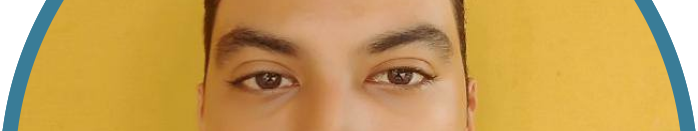
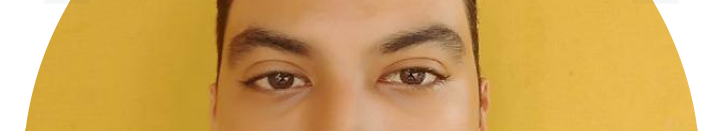
perfil image efect

diff --git a/src/assets/css/style.css b/src/assets/css/style.css
@@ -1,4 +1,4 @@
-.l-perfil__image .move-1{animation:move-1 6s infinite;width:100%;margin:0;padding:0;line-height:0}.l-perfil__image .move-2{width:100%;animation:move-2 6s infinite;top:10px;margin:-1.1px;padding:-1.1px;line-height:0}.l-perfil__image .move-3{width:100%;animation:move-3 6s infinite;margin:0;padding:0;line-height:0}.l-perfil__image .move-4{animation:move-4 6s infinite;width:100%;margin:-1px;padding:-1px;line-height:100px}.l-perfil__image .move-5{animation:move-5 6s infinite;width:100%;margin:-1px;padding:-1px;line-height:0}@keyframes move-1{0%{transform:translateX(0)}1%{transform:translateX(15px)}2%{transform:translateX(0)}to{transform:translateX(0)}}@keyframes move-2{0%{transform:translateX(1px)}2%{transform:translateX(-12px)}4%{transform:translateX(0)}to{transform:translateX(0)}}@keyframes move-3{1%{transform:translateX(2px)}3%{transform:translateX(7px)}4%{transform:translateX(0)}to{transform:translateX(0)}}@keyframes move-4{0%{transform:translateX(0)}2%{transform:translateX(-3px)}3%{transform:translateX(0)}to{transform:translateX(0)}}@keyframes move-5{0%{transform:translateX(1px)}3%{transform:translateX(2px)}4%{transform:translateX(0)}to{transform:translateX(0)}}
+.l-perfil__image .move-1{max-width:100%;animation:move-1 5s infinite;margin:0;padding:0;line-height:0}.l-perfil__image .move-2{max-width:100%;animation:move-2 5s infinite;top:10px;margin:-1.1px;padding:-1.1px;line-height:0}.l-perfil__image .move-3{max-width:100%;animation:move-3 5s infinite;margin:0;padding:0;line-height:0}.l-perfil__image .move-4{max-width:100%;animation:move-4 5s infinite;margin:-1px;padding:-1px;line-height:100px}.l-perfil__image .move-5{max-width:100%;animation:move-5 5s infinite;margin:-1px;padding:-1px;line-height:0}@keyframes move-1{0%{transform:translateX(0)}1%{transform:translateX(15px)}2%{transform:translateX(0)}to{transform:translateX(0)}}@keyframes move-2{0%{transform:translateX(1px)}1%{transform:translateX(-12px)}2%{transform:translateX(0)}to{transform:translateX(0)}}@keyframes move-3{1%{transform:translateX(2px)}2%{transform:translateX(7px)}3%{transform:translateX(0)}to{transform:translateX(0)}}@keyframes move-4{0%{transform:translateX(0)}2%{transform:translateX(-3px)}3%{transform:translateX(0)}to{transform:translateX(0)}}@keyframes move-5{0%{transform:translateX(1px)}1%{transform:translateX(2px)}2%{transform:translateX(0)}to{transform:translateX(0)}}
 
-/*! normalize.css v8.0.1 | MIT License | github.com/necolas/normalize.css */html{line-height:1.15;-webkit-text-size-adjust:100%}body{margin:0}main{display:block}h1{font-size:2em;margin:.67em 0}hr{box-sizing:content-box;height:0;overflow:visible}pre{font-family:monospace,monospace;font-size:1em}a{background-color:transparent}abbr[title]{border-bottom:none;text-decoration:underline;text-decoration:underline dotted}b,strong{font-weight:bolder}code,kbd,samp{font-family:monospace,monospace;font-size:1em}small{font-size:80%}sub,sup{font-size:75%;line-height:0;position:relative;vertical-align:baseline}sub{bottom:-.25em}sup{top:-.5em}img{border-style:none}button,input,optgroup,select,textarea{font-family:inherit;font-size:100%;line-height:1.15;margin:0}button,input{overflow:visible}button,select{text-transform:none}[type=button],[type=reset],[type=submit],button{-webkit-appearance:button}[type=button]::-moz-focus-inner,[type=reset]::-moz-focus-inner,[type=submit]::-moz-focus-inner,button::-moz-focus-inner{border-style:none;padding:0}[type=button]:-moz-focusring,[type=reset]:-moz-focusring,[type=submit]:-moz-focusring,button:-moz-focusring{outline:1px dotted ButtonText}fieldset{padding:.35em .75em .625em}legend{box-sizing:border-box;color:inherit;display:table;max-width:100%;padding:0;white-space:normal}progress{vertical-align:baseline}textarea{overflow:auto}[type=checkbox],[type=radio]{box-sizing:border-box;padding:0}[type=number]::-webkit-inner-spin-button,[type=number]::-webkit-outer-spin-button{height:auto}[type=search]{-webkit-appearance:textfield;outline-offset:-2px}[type=search]::-webkit-search-decoration{-webkit-appearance:none}::-webkit-file-upload-button{-webkit-appearance:button;font:inherit}details{display:block}summary{display:list-item}[hidden],template{display:none}a{text-decoration:none}li{list-style:none}@font-face{font-family:Raleway Regular;src:url(../fonts/raleway/raleway-regular.ttf) format("truetype")}@font-face{font-family:Raleway Bold;src:url(../fonts/raleway/raleway-bold.ttf) format("truetype")}.alert{height:25px;padding:4px;border-radius:4px;color:#ba2819;margin-top:.4rem}.alert,.sucess{display:flex;box-sizing:border-box;align-items:center}.sucess{box-shadow:0 0 5px 0 rgba(0,0,0,.45);background:#267539;border-radius:6px;padding:10px;height:51px;width:100%}.sucess__icon{height:20px;width:20px;padding:5px;margin-right:10px;border-radius:50%;background:#195727}html{scroll-behavior:smooth}.l-about__area{display:flex;flex-direction:row;justify-content:space-between;margin:20px 0}.l-about__area .c-button{max-width:151px}@media screen and (max-width:768px){.l-about__area{flex-direction:column}.l-about__area .l-perfil__area{order:0;align-self:center}.l-about__area .c-about__me{order:1}}body{display:flex;align-items:center;flex-direction:column;background-color:#202835;font-family:Raleway Regular,sans-serif;color:#fff;font-weight:700}.l-card__hobbies{align-items:center;border-radius:5px;flex-direction:row;height:90px;justify-content:center;padding:4px;width:300px}.l-card__hobbies,.l-card__project{background-color:#293342;box-sizing:border-box;display:flex}.l-card__project{box-shadow:0 0 5px 0 rgba(0,0,0,.45);border-radius:6px;height:265px;max-width:360px;min-width:310px;position:relative}.l-card__project,.l-card__project__body{flex-direction:column;overflow:hidden;width:100%}.l-card__project__body{background-color:#293342;bottom:0;box-sizing:border-box;cursor:default;display:flex;height:70px;justify-self:end;padding:10px;position:absolute;transition:.4s}.l-card__project__body:hover{animation:over .6s;height:65%;transition:all .8s}.l-card__project__body:hover .c-card__project__show__description{transform:translateX(-50%) rotate(180deg);transition:all .8s}@keyframes over{0%{overflow:hidden}to{overflow:visible}}.l-card__project__button{display:flex;flex-direction:column;position:absolute;top:10px;right:10px}.l-carrossel{box-shadow:0 0 5px 0 rgba(0,0,0,.45);align-items:center;background-color:#293342;border-radius:5px;display:flex;flex-direction:row;height:90px;overflow:hidden;width:300px}.l-carrossel__container{display:flex;flex-direction:row;transition:transform .4s ease-in-out}.l-cite__container{display:flex;align-items:center;justify-content:center}.l-contact__area{width:100%}.l-contact__container{display:flex;justify-content:space-between;margin:4rem 0}@media screen and (min-width:0){.l-contact__container{flex-direction:column}.l-contact__container .l-contact__area,.l-contact__container .l-social__area{width:100%}}@media screen and (min-width:690px){.l-contact__container{flex-direction:row}.l-contact__container .l-contact__area,.l-contact__container .l-social__area{width:50%}}.l-container{box-sizing:border-box;max-width:1136px;padding:0 20px;width:100%}.l-container,.l-copyright{display:flex;flex-direction:column}.l-copyright{align-items:center;border-bottom:4px solid #48b0d3;margin-bottom:10px;background-color:#293342}.l-copyright .c-developer{color:#48b0d3;text-decoration:none}.l-form{width:100%}.l-form .c-button{margin-top:10px;max-width:177px;cursor:pointer}.l-navbar{box-shadow:0 0 5px 0 rgba(0,0,0,.45);background-color:#202835;box-sizing:border-box;flex-direction:row;height:4rem;justify-content:space-between;max-width:1136px;background-color:#1a2233;padding:5px;border-radius:0 0 6px 6px}.l-navbar,.l-perfil__area{align-items:center;display:flex;width:100%}.l-perfil__area{flex-direction:column;max-width:250px;justify-content:center;padding:0 20px;margin-top:20px}.l-projects__container{display:grid;grid-template-columns:repeat(auto-fill,minmax(310px,auto));row-gap:16px;column-gap:10px}.l-skill__hobbies{display:flex}@media screen and (min-width:0){.l-skill__hobbies{flex-direction:column;align-items:center}}@media screen and (min-width:690px){.l-skill__hobbies{justify-content:space-between;flex-direction:row}}@media screen and (min-width:768px){.l-skill__hobbies{align-self:center;flex-direction:column}}.l-social__list{display:flex;flex-direction:column;margin:0;padding:0}.l-social__media{display:flex;justify-content:space-around;align-items:center;margin-top:2rem;margin-bottom:2rem;width:100%;height:40px}.l-perfil__image{display:flex;flex-direction:column;align-items:center;justify-content:center;width:250px;height:250px;position:relative;overflow:hidden;padding:10px}.c-navbar__item{padding:15px;box-sizing:border-box}.c-navbar__item:hover{border-bottom:3px solid #48b0d3}.c-navbar__link{display:flex;flex-direction:row;font-weight:700;color:#fff}.c-navbar__list{flex-direction:row;height:3.5rem}.c-navbar__list,.c-navbar__logo{align-items:center;justify-content:center;display:flex;box-sizing:border-box}.c-navbar__logo{background-color:#48b0d3;border-radius:50%;color:#fff;font-weight:700;height:40px;padding:.5rem;width:40px}.c-button{align-items:center;background-color:transparent;border:2px solid #48b0d3;box-sizing:border-box;color:#fff;display:flex;font-weight:600;height:51px;justify-content:center;padding:8px 16px;width:100%}.c-button:hover{background-color:#293342;transition:all .8s ease-in-out}.c-perfil__image{display:flex;align-items:center;justify-content:center;border:4px solid #48b0d3;height:230px;width:230px;border-radius:50%}.c-about__me{display:flex;flex-direction:column;width:100%;max-width:600px}.c-cite{font-size:18px;max-width:100%;padding:10px;width:500px}.c-cite:after{content:"_";animation:pulse .6s infinite;margin-left:5px}@keyframes pulse{0%{opacity:0}to{opacity:1}}.c-card__icon{align-items:center;box-sizing:border-box;display:flex;height:75px;justify-content:center;padding:6px;width:75px}.c-card__project__image{align-self:center;box-sizing:border-box;max-height:210px;height:auto;width:100%}.c-card__project__link{height:30px;width:30px;margin:4px}.c-card__project__link--view{background:url(../img/icon/eyes.svg) no-repeat 50%}.c-card__project__link--code{background:url(../img/icon/code.svg) no-repeat 50%}.c-card__project__show__description{background:url(../img/icon/arrow.svg) 50% no-repeat;box-sizing:border-box;height:30px;left:50%;padding:6px;position:absolute;top:0;transform:translateX(-50%);width:30px}.c-textarea__container{margin-bottom:16px;position:relative}.c-textarea__label{color:#fff;font-size:16px;margin:4px;position:absolute;top:25px}.c-textarea{box-shadow:0 0 5px 0 rgba(0,0,0,.45);background-color:#293342;border-radius:4px;border:1px solid #293342;box-sizing:border-box;color:#fff;display:flex;height:82px;outline:0;padding:10px 4px 4px;width:100%}.c-textarea:focus~.c-textarea__label,.c-textarea:valid~.c-textarea__label{font-size:14px;transform:translateY(-20px)}.c-input__container{margin-bottom:16px;position:relative}.c-input__label{color:#fff;font-size:16px;margin:4px;position:absolute;top:20px}.c-input{background-color:#293342;border-radius:4px;border:1px solid #293342;box-shadow:0 2px 2px 0 rgba(0,0,0,.3);box-sizing:border-box;color:#fff;display:flex;height:56px;outline:0;padding:12px 4px 4px;width:100%}.c-input:focus~.c-input__label,.c-input:valid~.c-input__label{font-size:14px;transform:translateY(-20px)}.c-social__link{color:#fff;display:flex;padding:6px 6px 6px 0;width:100px}.c-social__link:hover{color:#48b0d3;text-decoration:underline;transition:color .4s ease-in-out}.c-social__media{width:40px;height:40px}.c-social__media:hover{animation:swing .5s infinite}.c-social__media--linkedin{background:url(../img/icon/social_media/linkedin.svg) no-repeat}.c-social__media--github{background:url(../img/icon/social_media/github.svg) no-repeat}.c-social__media--instagram{background:url(../img/icon/social_media/instagram.svg) no-repeat}@keyframes swing{0%{transform:rotate(0deg) scale(1.1)}25%{transform:rotate(-20deg) scale(1.1)}50%{transform:rotate(0deg) scale(1.1)}75%{transform:rotate(20deg) scale(1.1)}to{transform:rotate(0deg) scale(1.1)}}.is-hidden{display:none}.is-show{display:flex;animation:show .6s ease-in-out}@keyframes show{0%{opacity:0}to{opacity:1}}
+/*! normalize.css v8.0.1 | MIT License | github.com/necolas/normalize.css */html{line-height:1.15;-webkit-text-size-adjust:100%}body{margin:0}main{display:block}h1{font-size:2em;margin:.67em 0}hr{box-sizing:content-box;height:0;overflow:visible}pre{font-family:monospace,monospace;font-size:1em}a{background-color:transparent}abbr[title]{border-bottom:none;text-decoration:underline;text-decoration:underline dotted}b,strong{font-weight:bolder}code,kbd,samp{font-family:monospace,monospace;font-size:1em}small{font-size:80%}sub,sup{font-size:75%;line-height:0;position:relative;vertical-align:baseline}sub{bottom:-.25em}sup{top:-.5em}img{border-style:none}button,input,optgroup,select,textarea{font-family:inherit;font-size:100%;line-height:1.15;margin:0}button,input{overflow:visible}button,select{text-transform:none}[type=button],[type=reset],[type=submit],button{-webkit-appearance:button}[type=button]::-moz-focus-inner,[type=reset]::-moz-focus-inner,[type=submit]::-moz-focus-inner,button::-moz-focus-inner{border-style:none;padding:0}[type=button]:-moz-focusring,[type=reset]:-moz-focusring,[type=submit]:-moz-focusring,button:-moz-focusring{outline:1px dotted ButtonText}fieldset{padding:.35em .75em .625em}legend{box-sizing:border-box;color:inherit;display:table;max-width:100%;padding:0;white-space:normal}progress{vertical-align:baseline}textarea{overflow:auto}[type=checkbox],[type=radio]{box-sizing:border-box;padding:0}[type=number]::-webkit-inner-spin-button,[type=number]::-webkit-outer-spin-button{height:auto}[type=search]{-webkit-appearance:textfield;outline-offset:-2px}[type=search]::-webkit-search-decoration{-webkit-appearance:none}::-webkit-file-upload-button{-webkit-appearance:button;font:inherit}details{display:block}summary{display:list-item}[hidden],template{display:none}a{text-decoration:none}li{list-style:none}@font-face{font-family:Raleway Regular;src:url(../fonts/raleway/raleway-regular.ttf) format("truetype")}@font-face{font-family:Raleway Bold;src:url(../fonts/raleway/raleway-bold.ttf) format("truetype")}.alert{height:25px;padding:4px;border-radius:4px;color:#ba2819;margin-top:.4rem}.alert,.sucess{display:flex;box-sizing:border-box;align-items:center}.sucess{box-shadow:0 0 5px 0 rgba(0,0,0,.45);background:#267539;border-radius:6px;padding:10px;height:51px;width:100%}.sucess__icon{height:20px;width:20px;padding:5px;margin-right:10px;border-radius:50%;background:#195727}html{scroll-behavior:smooth}.l-about__area{display:flex;flex-direction:row;justify-content:space-between;margin:20px 0}.l-about__area .c-button{max-width:151px}@media screen and (max-width:768px){.l-about__area{flex-direction:column}.l-about__area .l-perfil__area{order:0;align-self:center}.l-about__area .c-about__me{order:1}}body{display:flex;align-items:center;flex-direction:column;background-color:#202835;font-family:Raleway Regular,sans-serif;color:#fff;font-weight:700}.l-card__hobbies{align-items:center;border-radius:5px;flex-direction:row;height:90px;justify-content:center;padding:4px;width:300px}.l-card__hobbies,.l-card__project{background-color:#293342;box-sizing:border-box;display:flex}.l-card__project{box-shadow:0 0 5px 0 rgba(0,0,0,.45);border-radius:6px;height:265px;max-width:360px;min-width:310px;position:relative}.l-card__project,.l-card__project__body{flex-direction:column;overflow:hidden;width:100%}.l-card__project__body{background-color:#293342;bottom:0;box-sizing:border-box;cursor:default;display:flex;height:70px;justify-self:end;padding:10px;position:absolute;transition:.4s}.l-card__project__body:hover{animation:over .6s;height:65%;transition:all .8s}.l-card__project__body:hover .c-card__project__show__description{transform:translateX(-50%) rotate(180deg);transition:all .8s}@keyframes over{0%{overflow:hidden}to{overflow:visible}}.l-card__project__button{display:flex;flex-direction:column;position:absolute;top:10px;right:10px}.l-carrossel{box-shadow:0 0 5px 0 rgba(0,0,0,.45);align-items:center;background-color:#293342;border-radius:5px;display:flex;flex-direction:row;height:90px;overflow:hidden;width:300px}.l-carrossel__container{display:flex;flex-direction:row;transition:transform .4s ease-in-out}.l-cite__container{display:flex;align-items:center;justify-content:center}.l-contact__area{width:100%}.l-contact__container{display:flex;justify-content:space-between;margin:4rem 0}@media screen and (min-width:0){.l-contact__container{flex-direction:column}.l-contact__container .l-contact__area,.l-contact__container .l-social__area{width:100%}}@media screen and (min-width:690px){.l-contact__container{flex-direction:row}.l-contact__container .l-contact__area,.l-contact__container .l-social__area{width:50%}}.l-container{box-sizing:border-box;max-width:1136px;padding:0 20px;width:100%}.l-container,.l-copyright{display:flex;flex-direction:column}.l-copyright{align-items:center;border-bottom:4px solid #48b0d3;margin-bottom:10px;background-color:#293342}.l-copyright .c-developer{color:#48b0d3;text-decoration:none}.l-form{width:100%}.l-form .c-button{margin-top:10px;max-width:177px;cursor:pointer}.l-navbar{box-shadow:0 0 5px 0 rgba(0,0,0,.45);background-color:#202835;box-sizing:border-box;flex-direction:row;height:4rem;justify-content:space-between;max-width:1136px;background-color:#1a2233;padding:5px;border-radius:0 0 6px 6px}.l-navbar,.l-perfil__area{align-items:center;display:flex;width:100%}.l-perfil__area{flex-direction:column;max-width:250px;justify-content:center;padding:0 20px;margin-top:20px}.l-projects__container{display:grid;grid-template-columns:repeat(auto-fill,minmax(310px,auto));row-gap:16px;column-gap:10px}.l-skill__hobbies{display:flex}@media screen and (min-width:0){.l-skill__hobbies{flex-direction:column;align-items:center}}@media screen and (min-width:690px){.l-skill__hobbies{justify-content:space-between;flex-direction:row}}@media screen and (min-width:768px){.l-skill__hobbies{align-self:center;flex-direction:column}}.l-social__list{display:flex;flex-direction:column;margin:0;padding:0}.l-social__media{justify-content:space-around;margin-top:2rem;margin-bottom:2rem;height:40px}.l-perfil__image,.l-social__media{display:flex;align-items:center;width:100%}.l-perfil__image{flex-direction:column;justify-content:center;max-width:250px;height:100%;max-height:250px;position:relative;margin:0 auto;animation:neon_pulse 2.4s infinite;border-radius:50%;box-sizing:border-box}@keyframes neon_pulse{0%{filter:drop-shadow(-3.5px 0 0 #387c96) drop-shadow(3.5px 0 0 #387c96) drop-shadow(0 -3.5px 0 #387c96) drop-shadow(0 3.5px 0 #387c96) drop-shadow(0 0 4px #387c96)}50%{filter:drop-shadow(-3.5px 0 0 #387c96) drop-shadow(3.5px 0 0 #387c96) drop-shadow(0 -3.5px 0 #387c96) drop-shadow(0 3.5px 0 #387c96)}to{filter:drop-shadow(-3.5px 0 0 #387c96) drop-shadow(3.5px 0 0 #387c96) drop-shadow(0 -3.5px 0 #387c96) drop-shadow(0 3.5px 0 #387c96) drop-shadow(0 0 4px #387c96)}}.c-navbar__item{padding:15px;box-sizing:border-box}.c-navbar__item:hover{border-bottom:3px solid #48b0d3}.c-navbar__link{display:flex;flex-direction:row;font-weight:700;color:#fff}.c-navbar__list{flex-direction:row;height:3.5rem}.c-navbar__list,.c-navbar__logo{align-items:center;justify-content:center;display:flex;box-sizing:border-box}.c-navbar__logo{background-color:#48b0d3;border-radius:50%;color:#fff;font-weight:700;height:40px;padding:.5rem;width:40px}.c-button{align-items:center;background-color:transparent;border:2px solid #48b0d3;box-sizing:border-box;color:#fff;display:flex;font-weight:600;height:51px;justify-content:center;padding:8px 16px;width:100%}.c-button:hover{background-color:#293342;transition:all .8s ease-in-out}.c-perfil__image{display:flex;align-items:center;justify-content:center;border:4px solid #48b0d3;height:230px;width:230px;border-radius:50%}.c-about__me{display:flex;flex-direction:column;width:100%;max-width:600px}.c-cite{font-size:18px;max-width:100%;padding:10px;width:500px}.c-cite:after{content:"_";animation:pulse .6s infinite;margin-left:5px}@keyframes pulse{0%{opacity:0}to{opacity:1}}.c-card__icon{align-items:center;box-sizing:border-box;display:flex;height:75px;justify-content:center;padding:6px;width:75px}.c-card__project__image{align-self:center;box-sizing:border-box;max-height:210px;height:auto;width:100%}.c-card__project__link{height:30px;width:30px;margin:4px}.c-card__project__link--view{background:url(../img/icon/eyes.svg) no-repeat 50%}.c-card__project__link--code{background:url(../img/icon/code.svg) no-repeat 50%}.c-card__project__show__description{background:url(../img/icon/arrow.svg) 50% no-repeat;box-sizing:border-box;height:30px;left:50%;padding:6px;position:absolute;top:0;transform:translateX(-50%);width:30px}.c-textarea__container{margin-bottom:16px;position:relative}.c-textarea__label{color:#fff;font-size:16px;margin:4px;position:absolute;top:25px}.c-textarea{box-shadow:0 0 5px 0 rgba(0,0,0,.45);background-color:#293342;border-radius:4px;border:1px solid #293342;box-sizing:border-box;color:#fff;display:flex;height:82px;outline:0;padding:10px 4px 4px;width:100%}.c-textarea:focus~.c-textarea__label,.c-textarea:valid~.c-textarea__label{font-size:14px;transform:translateY(-20px)}.c-input__container{margin-bottom:16px;position:relative}.c-input__label{color:#fff;font-size:16px;margin:4px;position:absolute;top:20px}.c-input{background-color:#293342;border-radius:4px;border:1px solid #293342;box-shadow:0 2px 2px 0 rgba(0,0,0,.3);box-sizing:border-box;color:#fff;display:flex;height:56px;outline:0;padding:12px 4px 4px;width:100%}.c-input:focus~.c-input__label,.c-input:valid~.c-input__label{font-size:14px;transform:translateY(-20px)}.c-social__link{color:#fff;display:flex;padding:6px 6px 6px 0;width:100px}.c-social__link:hover{color:#48b0d3;text-decoration:underline;transition:color .4s ease-in-out}.c-social__media{width:40px;height:40px}.c-social__media:hover{animation:swing .5s infinite}.c-social__media--linkedin{background:url(../img/icon/social_media/linkedin.svg) no-repeat}.c-social__media--github{background:url(../img/icon/social_media/github.svg) no-repeat}.c-social__media--instagram{background:url(../img/icon/social_media/instagram.svg) no-repeat}@keyframes swing{0%{transform:rotate(0deg) scale(1.1)}25%{transform:rotate(-20deg) scale(1.1)}50%{transform:rotate(0deg) scale(1.1)}75%{transform:rotate(20deg) scale(1.1)}to{transform:rotate(0deg) scale(1.1)}}.is-hidden{display:none}.is-show{display:flex;animation:show .6s ease-in-out}@keyframes show{0%{opacity:0}to{opacity:1}}
 /*# sourceMappingURL=style.css.map */

diff --git a/src/assets/sass/abstract/_screen__tearing_effect.scss b/src/assets/sass/abstract/_screen__tearing_effect.scss
@@ -1,36 +1,37 @@
 .l-perfil__image {
   .move-1 {
-    animation: move-1 6s infinite;
-    width: 100%;
+    max-width: 100%;
+    animation: move-1 5s infinite;
     margin: 0;
     padding: 0;
     line-height: 0;
   }
+
   .move-2 {
-    width: 100%;
-    animation: move-2 6s infinite;
+    max-width: 100%;
+    animation: move-2 5s infinite;
     top: 10px;
     margin: -1.1px;
     padding: -1.1px;
     line-height: 0;
   }
   .move-3 {
-    width: 100%;
-    animation: move-3 6s infinite;
+    max-width: 100%;
+    animation: move-3 5s infinite;
     margin: 0;
     padding: 0;
     line-height: 0;
   }
   .move-4 {
-    animation: move-4 6s infinite;
-    width: 100%;
+    max-width: 100%;
+    animation: move-4 5s infinite;
     margin: -1px;
     padding: -1px;
     line-height: 100px;
   }
   .move-5 {
-    animation: move-5 6s infinite;
-    width: 100%;
+    max-width: 100%;
+    animation: move-5 5s infinite;
     margin: -1px;
     padding: -1px;
     line-height: 0;
@@ -56,10 +57,10 @@
   0% {
     transform: translateX(1px);
   }
-  2% {
+  1% {
     transform: translateX(-12px);
   }
-  4% {
+  2% {
     transform: translateX(0px);
   }
   100% {
@@ -71,10 +72,10 @@
   1% {
     transform: translateX(2px);
   }
-  3% {
+  2% {
     transform: translateX(7px);
   }
-  4% {
+  3% {
     transform: translateX(0px);
   }
   100% {
@@ -101,10 +102,10 @@
   0% {
     transform: translateX(1px);
   }
-  3% {
+  1% {
     transform: translateX(2px);
   }
-  4% {
+  2% {
     transform: translateX(0px);
   }
   100% {

diff --git a/src/assets/sass/layout/_l-perfil__image.scss b/src/assets/sass/layout/_l-perfil__image.scss
@@ -3,9 +3,33 @@
   flex-direction: column;
   align-items: center;
   justify-content: center;
-  width: 250px;
-  height: 250px;
+  width: 100%;
+  max-width: 250px;
+  height: 100%;
+  max-height: 250px;
   position: relative;
-  overflow: hidden;
-  padding: 10px;
+  margin: 0 auto;
+  animation: neon_pulse 2.4s infinite;
+  border-radius: 50%;
+  box-sizing: border-box;
+}
+
+@keyframes neon_pulse {
+  0% {
+    filter: drop-shadow(-3.5px 0px 0px #387c96)
+      drop-shadow(3.5px 0px 0px #387c96) drop-shadow(0px -3.5px 0px #387c96)
+      drop-shadow(0px 3.5px 0px #387c96) drop-shadow(0px 0px 4px #387c96);
+  }
+
+  50% {
+    filter: drop-shadow(-3.5px 0px 0px #387c96)
+      drop-shadow(3.5px 0px 0px #387c96) drop-shadow(0px -3.5px 0px #387c96)
+      drop-shadow(0px 3.5px 0px #387c96);
+  }
+
+  100% {
+    filter: drop-shadow(-3.5px 0px 0px #387c96)
+      drop-shadow(3.5px 0px 0px #387c96) drop-shadow(0px -3.5px 0px #387c96)
+      drop-shadow(0px 3.5px 0px #387c96) drop-shadow(0px 0px 4px #387c96);
+  }
 }

diff --git a/index.html b/index.html
@@ -57,13 +57,7 @@
         </div>
 
         <div class="l-perfil__area">
-          <div class="l-perfil__image">
-            <img class="move-1" src="src/assets/img/perfil/t1.png" alt="" />
-            <img class="move-2" src="src/assets/img/perfil/t2.png" alt="" />
-            <img class="move-3" src="src/assets/img/perfil/t3.png" alt="" />
-            <img class="move-4" src="src/assets/img/perfil/t4.png" alt="" />
-            <img class="move-5" src="src/assets/img/perfil/t5.png" alt="" />
-          </div>
+          <div class="l-perfil__image"></div>
 
           <div class="l-social__media">
             <a class="c-social__media c-social__media--linkedin" href="https://linkedin.com/in/ygorfsguilherme/" target="_blank"></a>

diff --git a/src/assets/js/main.js b/src/assets/js/main.js
@@ -4,3 +4,4 @@ import * as hobbies from "./modules/hobbies.js";
 //import * as education from "./modules/education.js";
 import * as project from "./modules/project.js";
 import * as validateForm from "./modules/validator.js";
+import * as perfilImage from "./modules/perfilImage.js";

diff --git a/src/assets/js/modules/perfilImage.js b/src/assets/js/modules/perfilImage.js
@@ -1,0 +1,9 @@
+for (let i = 1; i < 6; i++) {
+  console.log(i);
+  document
+    .querySelector(".l-perfil__image")
+    .insertAdjacentHTML(
+      "beforeend",
+      `<img class="move-${i}" src="src/assets/img/perfil/t${i}.png" alt="" />`
+    );
+}
